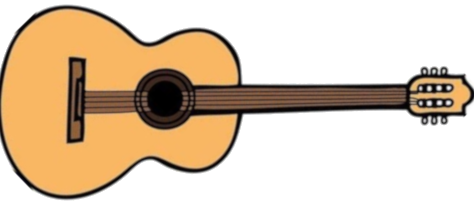
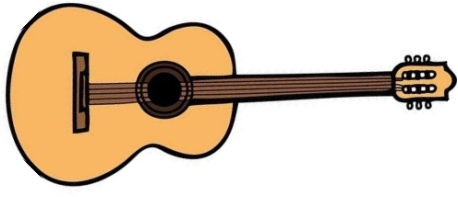
LendoCifra: Version -06

Changed region(s): [[0.0, 0.0, 1.0, 0.9746]]

diff --git a/lendo-cifras.py b/lendo-cifras.py
@@ -68,7 +68,10 @@ class jogo:
         
         iconVio = PhotoImage(file='img/viola00.png')
         self.viola = Label(self.janela, image=iconVio, bg='white', border=0)
-        self.viola.place(x=-120, y=10)
+        self.viola.place(x=-130, y=40)
+        
+        txt1 = Label(self.janela, text='Informe na Ordem o Grau das Notas', font=('arial',15,'bold'), bg='white', fg='orange')
+        txt1.place(x=80,y=20)        
         
         if grau == 'C':
             
@@ -91,12 +94,10 @@ class jogo:
             lb1 = Label(self.janela, text=v1, font=('arial',18,'bold'), bg='white', width=3)
             lb2 = Label(self.janela, text=v2, font=('arial',18,'bold'), bg='white', width=3)
             lb3 = Label(self.janela, text=v3, font=('arial',18,'bold'), bg='white', width=3)
-            lb1.place(x=180,y=130)
-            lb2.place(x=230,y=130)
-            lb3.place(x=280,y=130)
+            lb1.place(x=180,y=160)
+            lb2.place(x=230,y=160)
+            lb3.place(x=280,y=160)
 
-        txt1 = Label(self.janela, text='Informe na Ordem a Sequência das Notas:', font=('arial',13,'bold'), bg='white', fg='orange')
-        txt1.place(x=30,y=200)
 
         self.bt1 = Button(self.janela, text='1º', command = lambda: self.harmonia(1), bg='orange', fg='white', width='5', border=1)
         self.bt1.place(x=80,y=245)
@@ -113,9 +114,9 @@ class jogo:
         self.bt7 = Button(self.janela, text='7º', command = lambda: self.harmonia(7), bg='orange', fg='white', width='5', border=1)
         self.bt7.place(x=380,y=245)
 
-        logoImg2 = PhotoImage(file="img/guitarMan1.png")
-        self.logoimage2 = Label(self.janela, image=logoImg2, bg='white')
-        self.logoimage2.place(x=260, y=270)
+        logoImg1 = PhotoImage(file="img/guitarMan1.png")
+        self.logoimage2 = Label(self.janela, image=logoImg1, bg='white')
+        self.logoimage2.place(x=280, y=300)
 
         self.janela.mainloop()
         
@@ -143,7 +144,7 @@ class jogo:
                 self.logoimage2.destroy()
                 logoImg3 = PhotoImage(file="img/guitarMan3.png")
                 logoimage3 = Label(self.janela, image=logoImg3, bg='white')
-                logoimage3.place(x=260, y=270)
+                logoimage3.place(x=300, y=300)
 
                 self.janela.mainloop()                
 
@@ -168,7 +169,7 @@ class jogo:
                 self.logoimage2.destroy()
                 logoImg3 = PhotoImage(file="img/guitarMan3.png")
                 logoimage3 = Label(self.janela, image=logoImg3, bg='white')
-                logoimage3.place(x=260, y=270)
+                logoimage3.place(x=300, y=300)
 
                 self.janela.mainloop()
 
@@ -193,7 +194,7 @@ class jogo:
                 self.logoimage2.destroy()
                 logoImg3 = PhotoImage(file="img/guitarMan3.png")
                 logoimage3 = Label(self.janela, image=logoImg3, bg='white')
-                logoimage3.place(x=260, y=270)
+                logoimage3.place(x=300, y=300)
 
                 self.janela.mainloop()
                 
@@ -218,7 +219,7 @@ class jogo:
                 self.logoimage2.destroy()
                 logoImg3 = PhotoImage(file="img/guitarMan3.png")
                 logoimage3 = Label(self.janela, image=logoImg3, bg='white')
-                logoimage3.place(x=260, y=270)
+                logoimage3.place(x=300, y=300)
 
                 self.janela.mainloop()
                 
@@ -243,7 +244,7 @@ class jogo:
                 self.logoimage2.destroy()
                 logoImg3 = PhotoImage(file="img/guitarMan3.png")
                 logoimage3 = Label(self.janela, image=logoImg3, bg='white')
-                logoimage3.place(x=260, y=270)
+                logoimage3.place(x=300, y=300)
 
                 self.janela.mainloop()
         if grau == 6:
@@ -267,7 +268,7 @@ class jogo:
                 self.logoimage2.destroy()
                 logoImg3 = PhotoImage(file="img/guitarMan3.png")
                 logoimage3 = Label(self.janela, image=logoImg3, bg='white')
-                logoimage3.place(x=260, y=270)
+                logoimage3.place(x=300, y=300)
 
                 self.janela.mainloop()
 
@@ -292,7 +293,7 @@ class jogo:
                 self.logoimage2.destroy()
                 logoImg3 = PhotoImage(file="img/guitarMan3.png")
                 logoimage3 = Label(self.janela, image=logoImg3, bg='white')
-                logoimage3.place(x=260, y=270)
+                logoimage3.place(x=300, y=300)
 
                 self.janela.mainloop()
 
